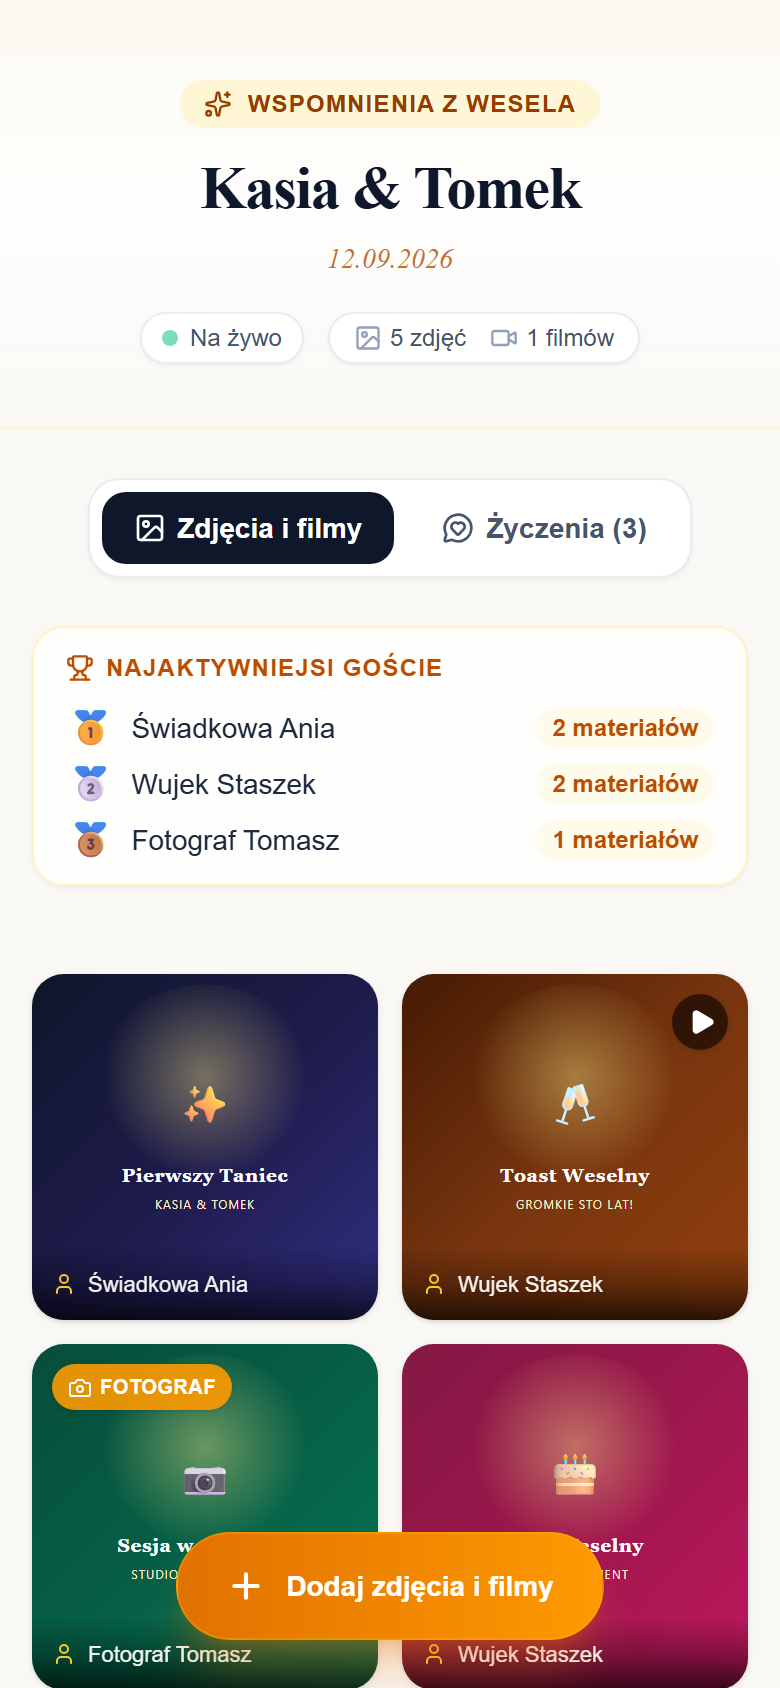
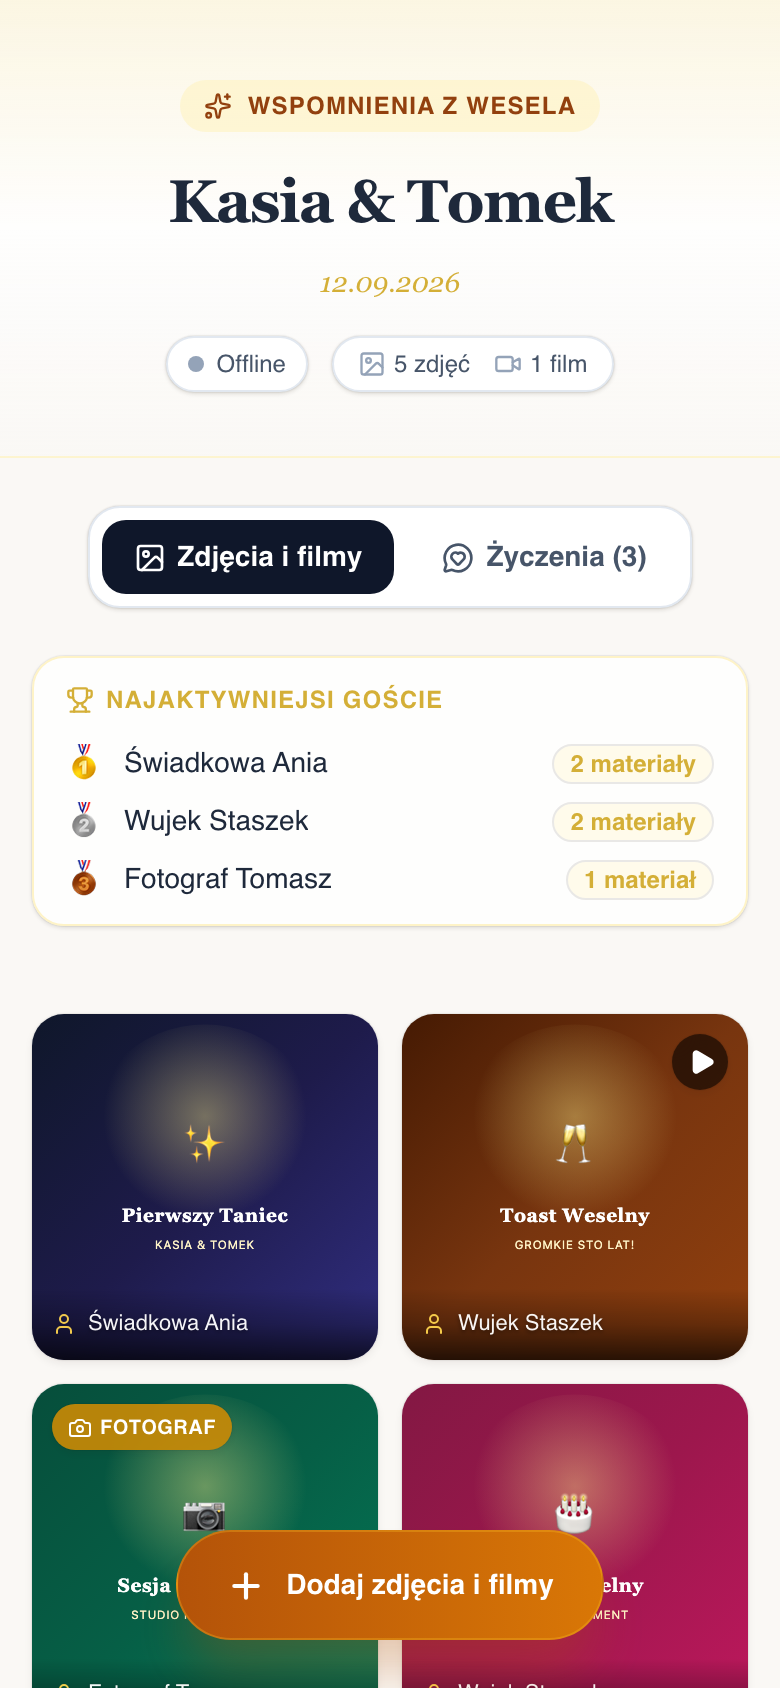
fix(web): popraw UX nagrywarki audio/wideo i odmianę liczebników PL (#64)

diff --git a/apps/web/src/components/upload/AudioVideoRecorder.tsx b/apps/web/src/components/upload/AudioVideoRecorder.tsx
@@ -1,6 +1,6 @@
 "use client";
 
-import { Mic, SwitchCamera, Video } from "lucide-react";
+import { Mic, Video } from "lucide-react";
 import { useTranslations } from "next-intl";
 import { useCallback, useEffect, useRef, useState } from "react";
 import { css } from "styled-system/css";
@@ -62,7 +62,6 @@ export default function AudioVideoRecorder({
 	const [supported, setSupported] = useState<boolean | null>(null);
 	const [phase, setPhase] = useState<Phase>("idle");
 	const [kind, setKind] = useState<RecordingKind>("audio");
-	const [facing, setFacing] = useState<"user" | "environment">("user");
 	const [elapsed, setElapsed] = useState(0);
 	const [error, setError] = useState<string | null>(null);
 	const [recorded, setRecorded] = useState<{ file: File; url: string } | null>(
@@ -122,7 +121,7 @@ export default function AudioVideoRecorder({
 					? { audio: true }
 					: {
 							audio: true,
-							video: { facingMode: facing, width: { ideal: 1280 } },
+							video: { facingMode: "user", width: { ideal: 1280 } },
 						},
 			);
 			streamRef.current = stream;
@@ -291,31 +290,6 @@ export default function AudioVideoRecorder({
 							<Video className={css({ w: "5", h: "5" })} aria-hidden="true" />
 							{t("recorderRecordVideo")}
 						</button>
-						<button
-							type="button"
-							disabled={disabled}
-							onClick={() =>
-								setFacing((f) => (f === "user" ? "environment" : "user"))
-							}
-							aria-label={t("cameraSwitchCamera")}
-							title={t("cameraSwitchCamera")}
-							className={css({
-								alignSelf: "stretch",
-								px: "3",
-								borderRadius: "xl",
-								borderWidth: "1px",
-								borderColor: "slate.200",
-								color: "slate.600",
-								cursor: "pointer",
-								_hover: { backgroundColor: "slate.100" },
-								_disabled: { opacity: 0.5, cursor: "not-allowed" },
-							})}
-						>
-							<SwitchCamera
-								className={css({ w: "5", h: "5" })}
-								aria-hidden="true"
-							/>
-						</button>
 					</div>
 				</>
 			)}
@@ -438,15 +412,30 @@ export default function AudioVideoRecorder({
 							})}
 						/>
 					)}
-					<div className={css({ display: "flex", gap: "2" })}>
-						<button type="button" onClick={reset} className={actionButton}>
-							{t("recorderRetake")}
-						</button>
+					<div
+						className={css({
+							display: "flex",
+							flexDirection: "column",
+							gap: "2",
+						})}
+					>
+						<div className={css({ display: "flex", gap: "2" })}>
+							<button type="button" onClick={reset} className={actionButton}>
+								{t("recorderCancel")}
+							</button>
+							<button
+								type="button"
+								onClick={() => start(kind)}
+								className={actionButton}
+							>
+								{t("recorderRetake")}
+							</button>
+						</div>
 						<button
 							type="button"
 							onClick={send}
 							className={css({
-								flex: "1",
+								w: "full",
 								p: "2.5",
 								borderRadius: "lg",
 								backgroundColor: "amber.600",

diff --git a/apps/web/src/components/admin/CreateGalleryModal.tsx b/apps/web/src/components/admin/CreateGalleryModal.tsx
@@ -5,7 +5,7 @@ import { Check, ExternalLink, X } from "lucide-react";
 import { useTranslations } from "next-intl";
 import type React from "react";
 import { useReducer, useRef, useState } from "react";
-import { css } from "styled-system/css";
+import { css, cx } from "styled-system/css";
 import NewTabLabel from "@/components/NewTabLabel";
 import { Button } from "@/components/ui/button";
 import { Input } from "@/components/ui/input";
@@ -241,17 +241,37 @@ export function CreateGalleryModal({
 									key={link.path("")}
 									href={link.path(created.slug)}
 									target="_blank"
-									className={`flex items-center justify-between p-3 rounded-xl border text-xs font-semibold focus-visible:ring-2 focus-visible:outline-none ${link.modalTone}`}
+									className={cx(
+										css({
+											display: "flex",
+											alignItems: "center",
+											justifyContent: "space-between",
+											gap: "2",
+											p: "3",
+											borderRadius: "xl",
+											borderWidth: "1px",
+											fontSize: "xs",
+											fontWeight: "semibold",
+											_focusVisible: { outline: "none" },
+										}),
+										link.modalTone,
+									)}
 								>
 									<span>{t(link.modalLabelKey)}</span>
 									{link.Icon ? (
 										<link.Icon
-											className={`w-4 h-4 ${link.modalIconTone}`}
+											className={cx(
+												css({ w: "4", h: "4", flexShrink: "0" }),
+												link.modalIconTone,
+											)}
 											aria-hidden="true"
 										/>
 									) : (
 										<ExternalLink
-											className={`w-4 h-4 ${link.modalIconTone}`}
+											className={cx(
+												css({ w: "4", h: "4", flexShrink: "0" }),
+												link.modalIconTone,
+											)}
 											aria-hidden="true"
 										/>
 									)}

diff --git a/apps/web/tests/unit/components/AudioVideoRecorder.test.tsx b/apps/web/tests/unit/components/AudioVideoRecorder.test.tsx
@@ -79,21 +79,19 @@ describe("AudioVideoRecorder", () => {
 		);
 	});
 
-	it("przełącza kamerę na tylną przed nagraniem", async () => {
-		const getUserMedia = stubMediaDevices();
+	it("po 'anuluj' wraca do wyboru i zwalnia adres podglądu", async () => {
+		stubMediaDevices();
 		render(<AudioVideoRecorder onRecorded={vi.fn()} />);
 
-		fireEvent.click(await screen.findByLabelText("cameraSwitchCamera"));
-		fireEvent.click(screen.getByText("recorderRecordVideo"));
-		await screen.findByLabelText("recorderStop");
-		expect(getUserMedia).toHaveBeenCalledWith(
-			expect.objectContaining({
-				video: expect.objectContaining({ facingMode: "environment" }),
-			}),
-		);
+		fireEvent.click(await screen.findByText("recorderRecordAudio"));
+		fireEvent.click(await screen.findByLabelText("recorderStop"));
+		fireEvent.click(await screen.findByText("recorderCancel"));
+
+		expect(await screen.findByText("recorderRecordAudio")).toBeInTheDocument();
+		expect(URL.revokeObjectURL).toHaveBeenCalledWith("blob:preview");
 	});
 
-	it("po 'nagraj ponownie' wraca do wyboru i zwalnia adres podglądu", async () => {
+	it("po 'nagraj ponownie' od razu zaczyna nowe nagranie tego samego typu", async () => {
 		stubMediaDevices();
 		render(<AudioVideoRecorder onRecorded={vi.fn()} />);
 
@@ -101,7 +99,8 @@ describe("AudioVideoRecorder", () => {
 		fireEvent.click(await screen.findByLabelText("recorderStop"));
 		fireEvent.click(await screen.findByText("recorderRetake"));
 
-		expect(await screen.findByText("recorderRecordAudio")).toBeInTheDocument();
+		fireEvent.click(await screen.findByLabelText("recorderStop"));
+		await screen.findByText("recorderPreviewAudio");
 		expect(URL.revokeObjectURL).toHaveBeenCalledWith("blob:preview");
 	});
 

diff --git a/scripts/capture-screenshots.ts b/scripts/capture-screenshots.ts
@@ -489,8 +489,9 @@ async function main() {
 		// ==========================================
 		console.log("6. Przechwytywanie panelu Pary Młodej...");
 		const ownerPage = await desktopContext.newPage();
-		// Zwiększamy nieco wysokość viewportu, by elegancko objąć nagłówek, statystyki, panel fotografa i moderację
-		await ownerPage.setViewportSize({ width: 1440, height: 1020 });
+		// Zwiększamy wysokość viewportu, by objąć nagłówek, statystyki, import fotografa
+		// oraz przełączniki zaawansowanej moderacji (hasło dostępu, kolejka akceptacji, zamrożenie galerii)
+		await ownerPage.setViewportSize({ width: 1440, height: 1900 });
 		await ownerPage.route(
 			"**/api/owner/kasia-i-tomek/session",
 			async (route) => {

diff --git a/DOCUMENTATION.md b/DOCUMENTATION.md
@@ -560,7 +560,7 @@ Goście mogą nagrać krótką wiadomość audio lub wideo (domyślnie do 60 s) 
 
 ### 15.1. Frontend
 
-- `components/upload/AudioVideoRecorder.tsx` — nagrywanie przez `MediaRecorder` z podglądem na żywo (wideo), odsłuchem/odtworzeniem przed dodaniem do wysyłki, limitem czasu (`maxDurationSeconds`, domyślnie 60 s, wymuszanym timerem po stronie klienta) oraz wyborem kamery przód/tył. Gotowy plik trafia do `useUploadQueue` jak każdy inny.
+- `components/upload/AudioVideoRecorder.tsx` — nagrywanie przez `MediaRecorder` z podglądem na żywo (wideo, zawsze z kamery przedniej `facingMode: "user"`), odsłuchem/odtworzeniem przed dodaniem do wysyłki (z opcją anulowania, ponownego nagrania lub dodania do wysyłki), limitem czasu (`maxDurationSeconds`, domyślnie 60 s, wymuszanym timerem po stronie klienta). Gotowy plik trafia do `useUploadQueue` jak każdy inny.
 - `lib/recorder-formats.ts` — wybór formatu wspieranego przez przeglądarkę (`pickRecorderMimeType`) oraz nazwa i typ MIME pliku wyprowadzane z faktycznego formatu nagrania, nie z założeń o przeglądarce.
 - **Fallback**: gdy brak `MediaRecorder`/`getUserMedia` (np. starsze iOS, kontekst niezabezpieczony), komponent pokazuje dwa przyciski otwierające natywny wybór/nagranie (`<input accept="audio/*|video/*" capture>`).
 - Wszystkie teksty pochodzą z `messages/{pl,en,de}.json` (przestrzeń `GuestGallery`, klucze `recorder*` i `audioAria`).
